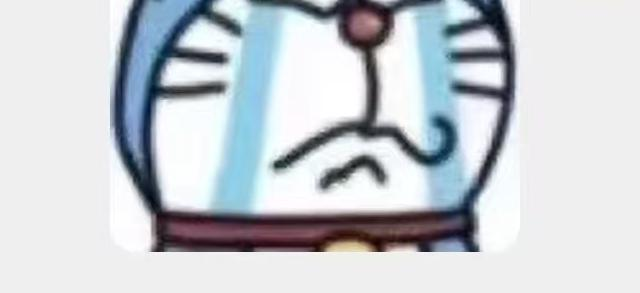
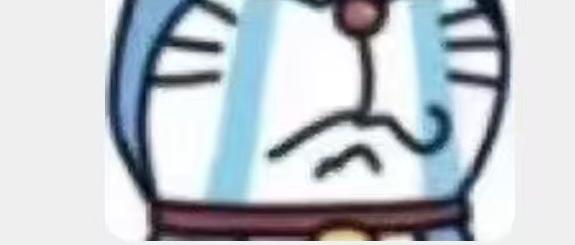
feat: update workspace

diff --git a/birthday-gift/src/components/ChatReplay.tsx b/birthday-gift/src/components/ChatReplay.tsx
@@ -129,7 +129,7 @@ export default function ChatReplay() {
                         {isMe ? (
                           <>
                             <div className={`max-w-[72%] justify-self-end self-end ${item.msg.image ? '' : 'px-3.5 py-2 bubble-me'}`}>
-                              {item.msg.image ? <img src={item.msg.image} alt="" className="w-[120px] h-auto rounded-lg" /> : <span className="text-sm leading-relaxed">{item.msg.text}</span>}
+                              {item.msg.image ? <img src={item.msg.image} alt="" className="w-[120px] h-auto" /> : <span className="text-sm leading-relaxed">{item.msg.text}</span>}
                             </div>
                             <img
                               src={getMeAvatar(item.date)}
@@ -151,7 +151,7 @@ export default function ChatReplay() {
                               className="w-8 h-8 rounded-full object-cover shrink-0 shadow-sm self-end"
                             />
                             <div className={`max-w-[72%] self-end ${item.msg.image ? '' : 'px-3.5 py-2 bubble-her'}`}>
-                              {item.msg.image ? <img src={item.msg.image} alt="" className="w-[120px] h-auto rounded-lg" /> : <span className="text-sm leading-relaxed">{item.msg.text}</span>}
+                              {item.msg.image ? <img src={item.msg.image} alt="" className="w-[120px] h-auto" /> : <span className="text-sm leading-relaxed">{item.msg.text}</span>}
                             </div>
                             <span />
                             {item.msg.time && (

diff --git a/birthday-gift/src/components/MomentCard.tsx b/birthday-gift/src/components/MomentCard.tsx
@@ -59,7 +59,7 @@ export default function MomentCard({ moment, index }: MomentCardProps) {
                         {isMe ? (
                           <>
                             <div className={`max-w-[78%] justify-self-end self-end ${msg.image ? '' : 'px-3 py-2 bubble-me'}`}>
-                              {msg.image ? <img src={msg.image} alt="" className="w-[110px] h-auto rounded-lg" /> : <span className="text-[15px] leading-relaxed">{msg.text}</span>}
+                              {msg.image ? <img src={msg.image} alt="" className="w-[110px] h-auto" /> : <span className="text-[15px] leading-relaxed">{msg.text}</span>}
                             </div>
                             <img
                               src={getMeAvatar(moment.date)}
@@ -81,7 +81,7 @@ export default function MomentCard({ moment, index }: MomentCardProps) {
                               className="w-8 h-8 rounded-full object-cover shrink-0 self-end"
                             />
                             <div className={`max-w-[78%] self-end ${msg.image ? '' : 'px-3 py-2 bubble-her'}`}>
-                              {msg.image ? <img src={msg.image} alt="" className="w-[110px] h-auto rounded-lg" /> : <span className="text-[15px] leading-relaxed">{msg.text}</span>}
+                              {msg.image ? <img src={msg.image} alt="" className="w-[110px] h-auto" /> : <span className="text-[15px] leading-relaxed">{msg.text}</span>}
                             </div>
                             <span />
                             {msg.time && (

diff --git a/birthday-gift/src/components/Prologue.tsx b/birthday-gift/src/components/Prologue.tsx
@@ -81,7 +81,7 @@ export default function Prologue() {
                     {isMe ? (
                       <>
                         <div className={`max-w-[72%] justify-self-end self-end ${msg.image ? '' : 'px-3.5 py-2 bubble-me'}`}>
-                          {msg.image ? <img src={msg.image} alt="" className="w-[120px] h-auto rounded-lg" /> : <span className="text-sm leading-relaxed">{msg.text}</span>}
+                          {msg.image ? <img src={msg.image} alt="" className="w-[120px] h-auto" /> : <span className="text-sm leading-relaxed">{msg.text}</span>}
                         </div>
                         <img
                           src={getMeAvatar('2025-11-21')}
@@ -103,7 +103,7 @@ export default function Prologue() {
                           className="w-8 h-8 rounded-full object-cover shrink-0 shadow-sm self-end"
                         />
                         <div className={`max-w-[72%] self-end ${msg.image ? '' : 'px-3.5 py-2 bubble-her'}`}>
-                          {msg.image ? <img src={msg.image} alt="" className="w-[120px] h-auto rounded-lg" /> : <span className="text-sm leading-relaxed">{msg.text}</span>}
+                          {msg.image ? <img src={msg.image} alt="" className="w-[120px] h-auto" /> : <span className="text-sm leading-relaxed">{msg.text}</span>}
                         </div>
                         <span />
                         {showTime && (
